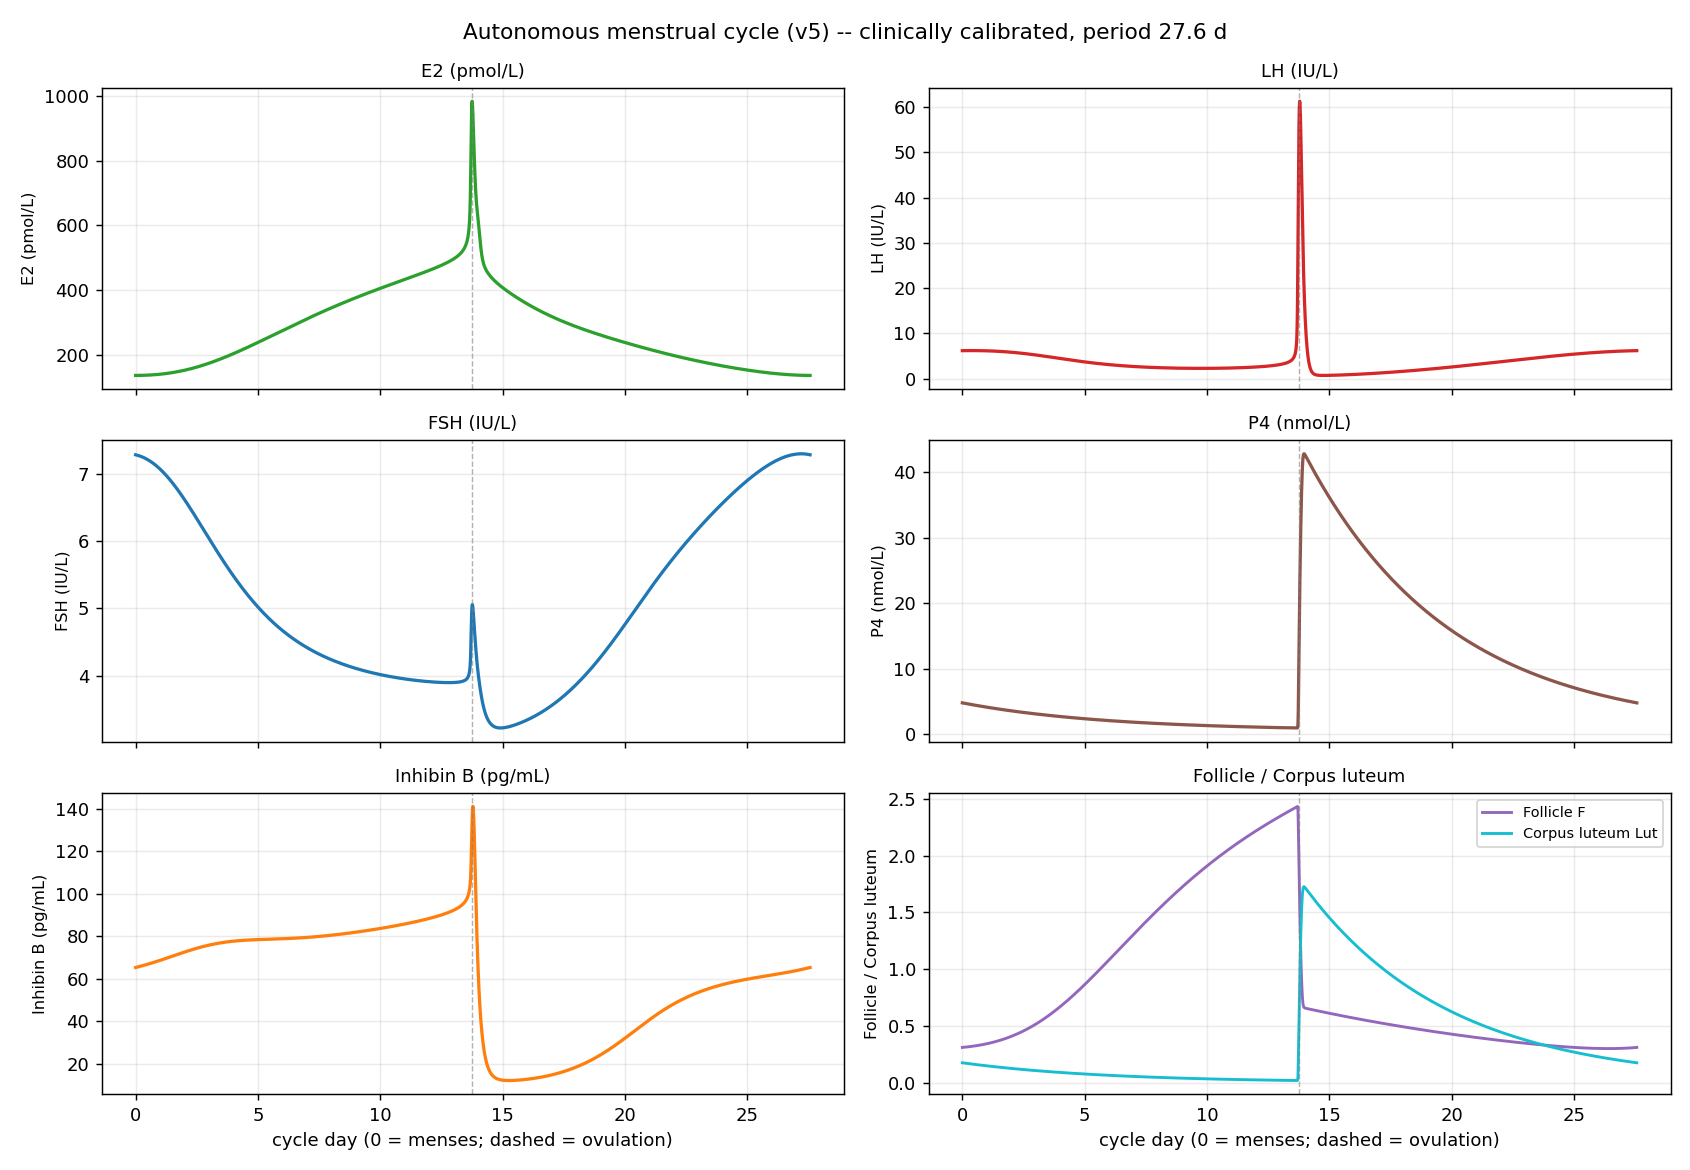
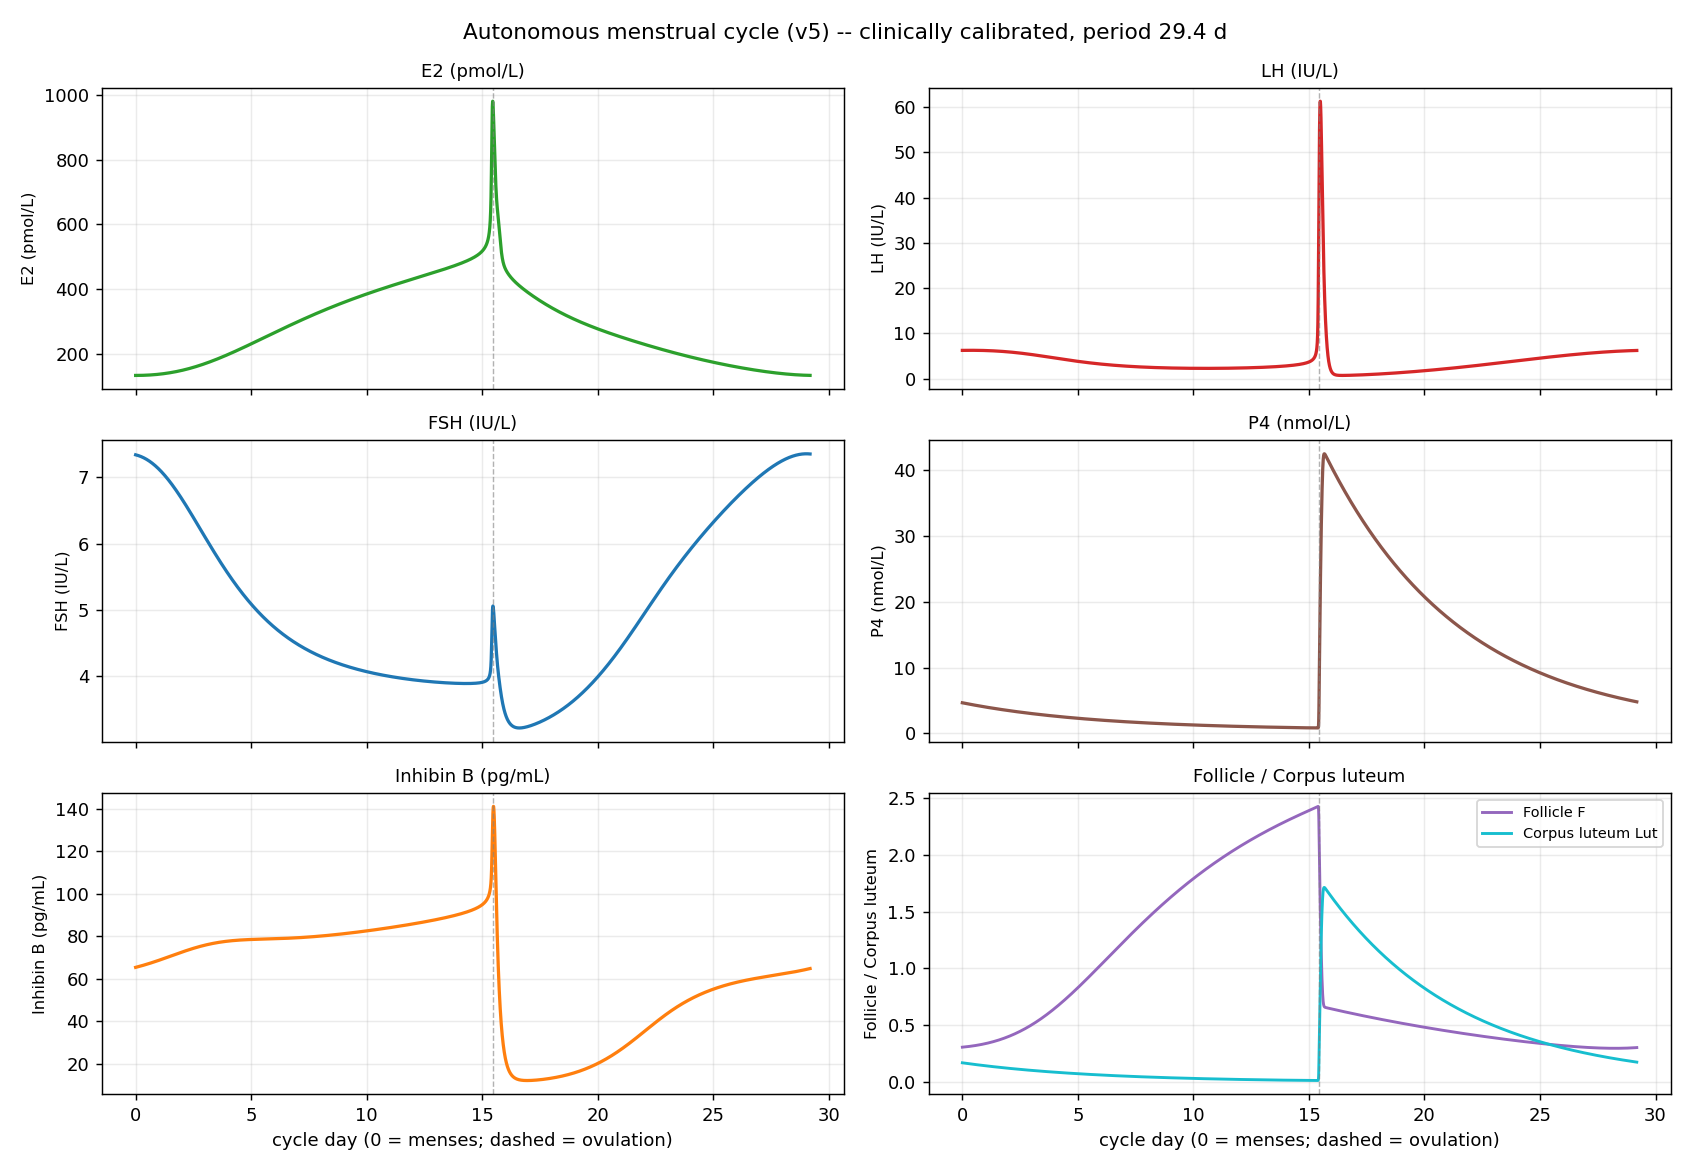
Tune v5 period to 29.4 d (k_grow 4.5e-5 -> 4.0e-5)
Lengthens the follicular phase slightly to land the cycle length at ~30 d
(ovulation day ~15). All hormone levels unchanged and in clinical ranges.

Claude-Session: https://claude.ai/code/session_01Sp9N3vfzqvV95ZW9wGWawZ

diff --git a/sigmoid_model_v5.py b/sigmoid_model_v5.py
@@ -98,7 +98,7 @@ P = dict(
     kP4_prod = 3.4,                                               # luteal P4 peaks ~40 nmol/L
 
     # slow ovarian states: follicle F, corpus luteum Lut
-    k_grow = 4.5e-5, K_Frec = 3.5, n_Frec = 4, Fmax = 10.0,       # FSH-saturated recruitment
+    k_grow = 4.0e-5, K_Frec = 3.5, n_Frec = 4, Fmax = 10.0,       # FSH-saturated recruitment
     k_atr  = 5.0e-5,                                              # baseline follicle loss
     K_P4gate = 2.5, n_P4gate = 4,                                 # low-P4 gate on follicle growth
     k_ov   = 5.0e-3, K_surge = 33.0, n_surge = 6,                 # LH surge ovulates the follicle
